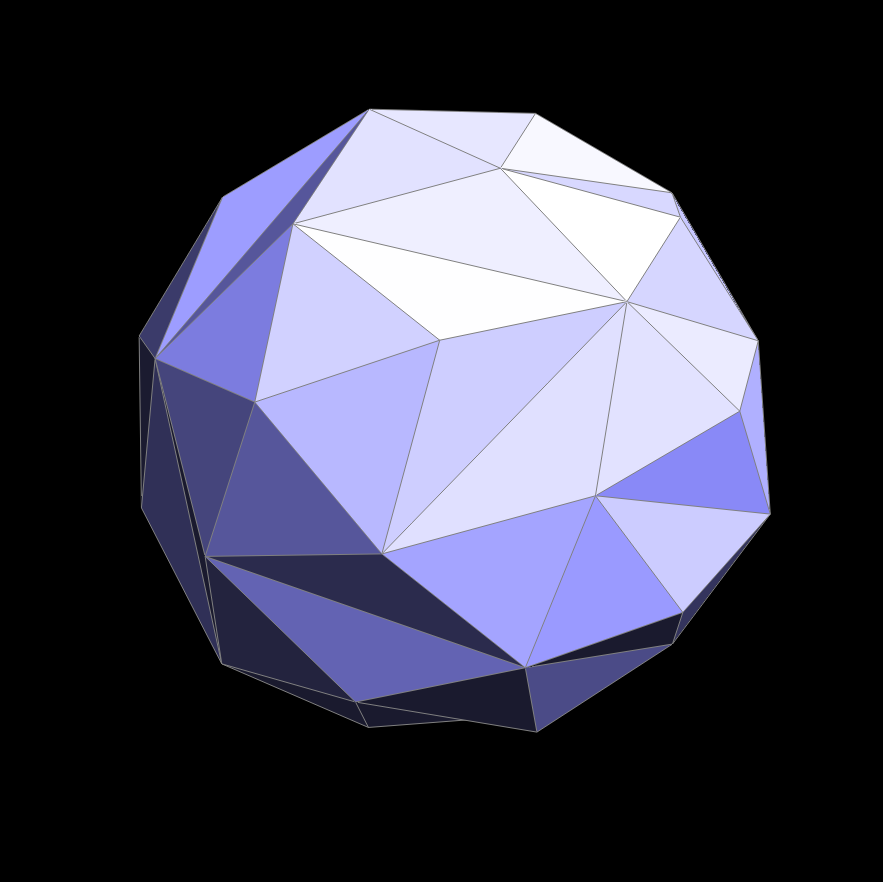
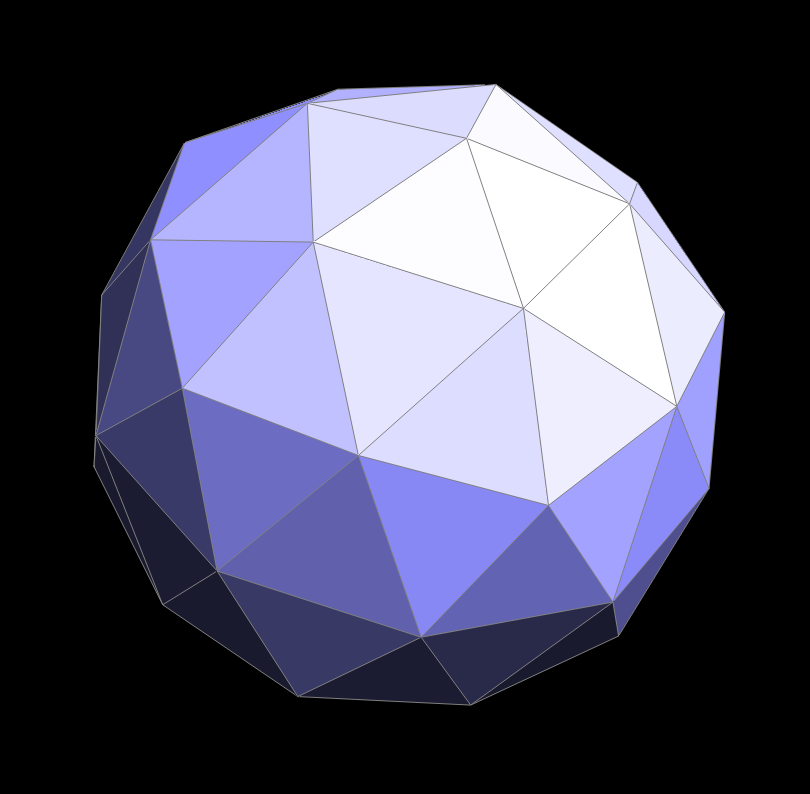
done

Changed region(s): [[0.0926, 0.0907, 0.8951, 0.9068]]

diff --git a/hw2/index.html b/hw2/index.html
@@ -47,8 +47,7 @@
 		-->
 
 		<h2>Overview</h2>
-		Give a high-level overview of what you implemented in this homework. Think about what you've built as a whole. Share your thoughts on what interesting things you've learned from completing the homework.
-
+		All in all, the project helped us achieve much smoother shapes by starting off with flat surfaces in each part.
 		<h2>Section I: Bezier Curves and Surfaces</h2>
 
 		<h3>Part 1: Bezier curves with 1D de Casteljau subdivision</h3>
@@ -302,8 +301,8 @@ By implementing this, I have a deeper understanding of how to efficiently repres
 		</p>
 
 		<pre><code>
-		h_bc->setNeighbors(h_ab, h_cb, v_d, e_bc_cb, f_bdc);
-		h_cb->setNeighbors(h_dc, h_bc, v_a, e_bc_cb, f_abc);
+		h_bc -> setNeighbors(h_ab, h_cb, v_d, e_bc_cb, f_bdc);
+		h_cb -> setNeighbors(h_dc, h_bc, v_a, e_bc_cb, f_abc);
 		h_ab -> setNeighbors(h_bd, h_ba, v_a, e_ab_ba, f_bdc); 
 		... 
 		</code></pre>
@@ -311,6 +310,20 @@ By implementing this, I have a deeper understanding of how to efficiently repres
 		<p>
 		This involved a lot of tracing and looking back at the table for the Halfedge structure, along with assigning the correct Halfedge pointer to all the vertices, edges, and faces.
 		</p>
+
+		<pre><code>
+		v_a -> halfedge() = h_ab;
+		v_b -> halfedge() = h_bd;
+		... 
+
+		e_ab_ba -> halfedge() = h_ab;
+    		e_ac_ca -> halfedge() = h_ca;
+    		e_bc_cb -> halfedge() = h_cb;  //returning flipped edge
+		...
+
+		FaceIter f_abc = h_ab->face();
+    		FaceIter f_bdc = h_dc->face();
+		</code></pre>
 
 		<p>
 		I ran into an issue regarding my pointers as when I initially flipped some of the edges, a triangle across the operated edge would seem to disappear. I realized either one or a few iterators may have been misplaced in my function, so I went back through the image of my Half-edge table, and after rescanning and retracing each connection, I noticed I had for some reason set the boundary half-edge c->d as the pointer for one of the inner triangle faces, when the correct one was half-edge d->c. 
@@ -331,12 +344,49 @@ By implementing this, I have a deeper understanding of how to efficiently repres
 		</div>
 
 		<p>
-		To implement the <code>splitEdge</code> operation, I started by identifying and labeling all original half-edges, vertices, edges, and faces surrounding the edge to be split. Then, I created six new half-edges to form the inner connections to and from the midpoint, as well as three new edges and two new faces. A new midpoint vertex <code>m</code> is created with position set to the average of the two edge endpoints.
+		To implement the <code>splitEdge</code> operation, I started by identifying and labeling all original half-edges, vertices, edges, and faces surrounding the edge to be split. Then, I created six new half-edges to form the inner connections to and from the midpoint, as well as three new edges and two new faces. Another new element was the midpoint vertex <code>m</code> I had to create and return later, with the position set to the average of the two edge endpoints.
 		</p>
 
 		<pre><code>
+		HalfedgeIter h_bc = e0->halfedge();  //bc to b->c, REPRESENTS NEW m->c
+		HalfedgeIter h_ca = h_bc->next();  //c->a
+		HalfedgeIter h_ab = h_ca->next();  //a->b
+		HalfedgeIter h_cb = h_bc->twin();  //c->b, REPRESENTS NEW c->m
+		HalfedgeIter h_bd = h_cb->next();  //b->d
+		HalfedgeIter h_dc = h_bd->next();  //d->c
+		HalfedgeIter h_ac = h_ca->twin();  //a->c
+		HalfedgeIter h_cd = h_dc->twin();  //c->d
+		HalfedgeIter h_db = h_bd->twin();  //d->b
+		HalfedgeIter h_ba = h_ab->twin();  //b->a
+		HalfedgeIter h_am = newHalfedge();
+		HalfedgeIter h_ma = newHalfedge();
+		HalfedgeIter h_bm = newHalfedge();
+		HalfedgeIter h_mb = newHalfedge();
+		HalfedgeIter h_dm = newHalfedge();
+		HalfedgeIter h_md = newHalfedge();
+		
+		VertexIter v_a = h_ab->vertex();
+		VertexIter v_b = h_bc->vertex();
+		VertexIter v_c = h_ca->vertex();
+		VertexIter v_d = h_dc->vertex();
 		VertexIter v_m = newVertex();  
 		v_m->position = ((v_c->position + v_b->position) / 2.0);
+		
+		EdgeIter e_ab_ba = h_ab->edge();
+		EdgeIter e_ac_ca = h_ac->edge();
+		EdgeIter e_bd_db = h_bd->edge();
+		EdgeIter e_cd_dc = h_cd->edge();
+		EdgeIter e_bc_cb = h_bc->edge(); //Reassigned edge bc to mc
+		EdgeIter e_mb_bm = newEdge();
+		EdgeIter e_ma_am = newEdge();
+		e_ma_am -> isNew = true;
+		EdgeIter e_md_dm = newEdge();
+		e_md_dm -> isNew = true; 
+		
+		FaceIter f_abc = h_ab->face(); //now cam triangle
+		FaceIter f_bdc = h_dc->face(); //now dcm triangle
+		FaceIter f_abm = newFace();
+		FaceIter f_bdm = newFace();
 		</code></pre>
 
 		<p>
@@ -348,7 +398,22 @@ By implementing this, I have a deeper understanding of how to efficiently repres
 		h_bm->setNeighbors(h_ma, h_mb, v_b, e_mb_bm, f_abm);
 		h_ma->setNeighbors(h_ab, h_am, v_m, e_ma_am, f_abm);
 		...
-		h_md->setNeighbors(h_dc, h_dm, v_m, e_md_dm, f_bdc);
+		
+		v_c -> halfedge() = h_ca;
+		v_d -> halfedge() = h_dc;
+		v_m -> halfedge() = h_ma;
+		...
+	
+		e_bc_cb -> halfedge() = h_bc; //mc-cm
+		e_mb_bm -> halfedge() = h_mb;
+		e_ma_am -> halfedge() = h_ma;
+		e_md_dm -> halfedge() = h_md;
+		...
+	
+		f_abc -> halfedge() = h_bc; //cam
+		f_bdc -> halfedge() = h_md; //dcm
+		f_abm -> halfedge() = h_ma;
+		f_bdm -> halfedge() = h_mb;
 		</code></pre>
 
 		<p>
@@ -382,6 +447,22 @@ By implementing this, I have a deeper understanding of how to efficiently repres
 		</figure>
 		</div>
 
+		<p>
+		I did run into a error later on in Part 6, which after hours of looking through my code and thinking it had to do with my edge flip implementation in Part 4 and 6, it was then I realized that the error lied in my Part 5 Edge Split implementation. After being advised to look back at the Discussion 5 slides for the step-by-step process of Loop Subdivision, I realized that after constantly reviewing Slide 69 which states, "For any new edge that connects new vertex to old vertex…", I had to ensure that the two completely new edges (in my case, <code>e_ma_am</code> and <code>e_md_dm</code>) were marked as new.
+		</p>
+
+		<pre><code>
+		//before
+		EdgeIter e_ma_am = newEdge();
+    		EdgeIter e_md_dm = newEdge();
+
+		//after
+		EdgeIter e_ma_am = newEdge();
+    		e_ma_am -> isNew = true;
+    		EdgeIter e_md_dm = newEdge();
+    		e_md_dm -> isNew = true;
+		</code></pre>
+
 		
 		<h3>Part 6: Loop subdivision for mesh upsampling</h3>
 
@@ -389,28 +470,36 @@ By implementing this, I have a deeper understanding of how to efficiently repres
 		To implement <code>upsample()</code> for loop subdivision, I followed the five major steps recommended in the spec and class lectures. The goal is to upscale the "resolution" the mesh by introducing new vertices and faces in each existing triangle, while updating positions using the Loop subdivision rules. 
 		</p>
 
-		<div style="display: flex; justify-content: space-around; align-items: center; margin-bottom: 20px;">
-			<figure style="text-align: center;">
-				<img src="images/part6_beforeLoop.png" style="width:350px;">
-				<figcaption>Mesh before a Loop subdivision</figcaption>
-			</figure>
-			<figure style="text-align: center;">
-				<img src="images/part6_afterLoop.png" style="width:350px;">
-				<figcaption>Mesh after applying 1 Loop subdivision</figcaption>
-			</figure>
-		</div>
-
 		<p>
 		<b>Step 1:</b> For each <code>original vertex</code>, I calculated its new position using the Loop subdivision weight formula, which depends on its degree <code>n</code>. I marked all existing vertices as <code>isNew = false</code>. Using a <code>do-while</code> loop to iterate around the 1-ring neighbors worked well here.
 		</p>
 
 		<pre><code>
-		if (n == 3) {
-		u = 3.0 / 16.0;
-		} else {
-		u = 3.0 / (8.0 * n);
-		}
-		v->newPosition = ((1 - n * u) * v->position) + (u * sumNeighbors);
+		for(VertexIter v = mesh.verticesBegin(); v != mesh.verticesEnd(); v++)
+			{
+			  Vector3D sumNeighbors(0.0, 0.0, 0.0);
+			  int n = 0; //degree-vertexEdges
+			  double u; //weight
+			  v -> isNew = false; //original
+		
+			  HalfedgeCIter hCheck = v->halfedge(); //tracker
+			  HalfedgeCIter origin = hCheck;
+		
+			  do {
+				sumNeighbors += hCheck->twin()->vertex()->position; //each neighbor vertex
+				n = n + 1;
+				hCheck = hCheck->twin()->next();
+			  } while (hCheck != origin);  //loop for all sum
+		
+			  if (n == 3) {
+				u = 3.0 / 16.0;
+			  }
+			  else {
+				u = 3.0 / (8.0 * n);
+			  }
+
+			  v -> newPosition = ((1 - n * u) * v->position) + (u * sumNeighbors);
+			}
 		</code></pre>
 
 		<p>
@@ -418,7 +507,20 @@ By implementing this, I have a deeper understanding of how to efficiently repres
 		</p>
 
 		<pre><code>
-		e->newPosition = ((3.0 / 8.0) * (a + b)) + ((1.0 / 8.0) * (c + d));
+		for (EdgeIter e = mesh.edgesBegin(); e != mesh.edgesEnd(); e++) {
+			//These vertices don't exist yet, just prep for when they're added via edge split
+			e -> isNew = false;
+
+			//gather for update with weights
+			HalfedgeIter h = e->halfedge();
+			Vector3D a = h->vertex()->position;
+			Vector3D b = h->twin()->vertex()->position;
+			Vector3D c = h->next()->next()->vertex()->position;
+			Vector3D d = h->twin()->next()->next()->vertex()->position;
+
+			//EX edge AB: newPosition = 3/8 * (A + B) + 1/8 * (C + D);
+			e -> newPosition = ((3.0 / 8.0) * (a + b)) + ((1.0 / 8.0) * (c + d));
+		}
 		</code></pre>
 
 		<p>
@@ -426,18 +528,36 @@ By implementing this, I have a deeper understanding of how to efficiently repres
 		</p>
 
 		<pre><code>
-		VertexIter v_added = mesh.splitEdge(e);
-		v_added->newPosition = e->newPosition;
-		v_added->isNew = true;
+			std::vector<EdgeIter> ogEdges; //save existing edges to split
+			for (EdgeIter e = mesh.edgesBegin(); e != mesh.edgesEnd(); e++) { //HalfedgeMesh class
+			  if ((e -> isNew) == false)
+			  {
+				ogEdges.push_back(e);
+			  }
+			}
+			
+			for (EdgeIter e : ogEdges) {
+			  if ((e -> isNew) == false) { //safely only split original existing edges
+				VertexIter v_added = mesh.splitEdge(e); //Part 5
+				v_added -> newPosition = e -> newPosition;
+				v_added -> isNew = true;
+			  }
+			}
 		</code></pre>
 
 		<p>
-		<b>Step 4:</b> I flipped all <code>new edges</code> that connect an old and new vertex. However, I believe I ran into an error here, as half of the flips didn't give the expected result. I suspected that it had to do with one of the isNew() assignments but I couldn't find it.
+		<b>Step 4:</b> I flipped all <code>new edges</code> that connect an old and new vertex. 
 		</p>
 
 		<pre><code>
-		if (v1->isNew != v2->isNew) {
-		mesh.flipEdge(e);  // Flipping sometimes breaks the mesh
+		for (EdgeIter e = mesh.edgesBegin(); e != mesh.edgesEnd(); e++) {
+			if (e -> isNew) {
+			  VertexIter v1 = e->halfedge()->vertex();
+			  VertexIter v2 = e->halfedge()->next()->vertex();
+			  if (v1->isNew != v2->isNew) {
+				mesh.flipEdge(e);
+			  }
+			}
 		}
 		</code></pre>
 
@@ -446,9 +566,40 @@ By implementing this, I have a deeper understanding of how to efficiently repres
 		</p>
 
 		<pre><code>
-		v->position = v->newPosition;
+		for (VertexIter v = mesh.verticesBegin(); v != mesh.verticesEnd(); v++) {
+			v -> position = v -> newPosition;
+		}
 		</code></pre>
 
+		<div style="display: flex; justify-content: space-around; align-items: center; margin-bottom: 20px;">
+			<figure style="text-align: center;">
+				<img src="images/part6_beforeLoop.png" style="width:350px;">
+				<figcaption>Mesh before a Loop subdivision</figcaption>
+			</figure>
+			<figure style="text-align: center;">
+				<img src="images/part6_afterLoop.png" style="width:350px;">
+				<figcaption>Mesh after a Loop subdivision</figcaption>
+			</figure>
+		</div>
+
+		<p>
+		Upon looking at the effect a Loop Subdivision has on the mesh above, it has a "sinking" affect as it divides each flat triangle into four while also give each their own unique orientation to make the mesh appear to increase in "resolution", giving it a smoother surface after each loop.
+		</p>
+
+		<div style="display: flex; justify-content: space-around; align-items: center; margin-bottom: 20px;">
+			<figure style="text-align: center;">
+				<img src="images/part6_cubeBefore.png" style="width:350px;">
+				<figcaption>Cube mesh before a Loop subdivision</figcaption>
+			</figure>
+			<figure style="text-align: center;">
+				<img src="images/part6_cubeAfter.png" style="width:350px;">
+				<figcaption>Cube mesh after several Loop subdivisions</figcaption>
+			</figure>
+		</div>
+
+		<p>
+		The cube mesh on the other hand has an asymmetric shape after each iteration, appear uneven and irregular unlike other meshes like the Bean or Teapot.
+		</p>
 		
 		</div>
 	</body>
